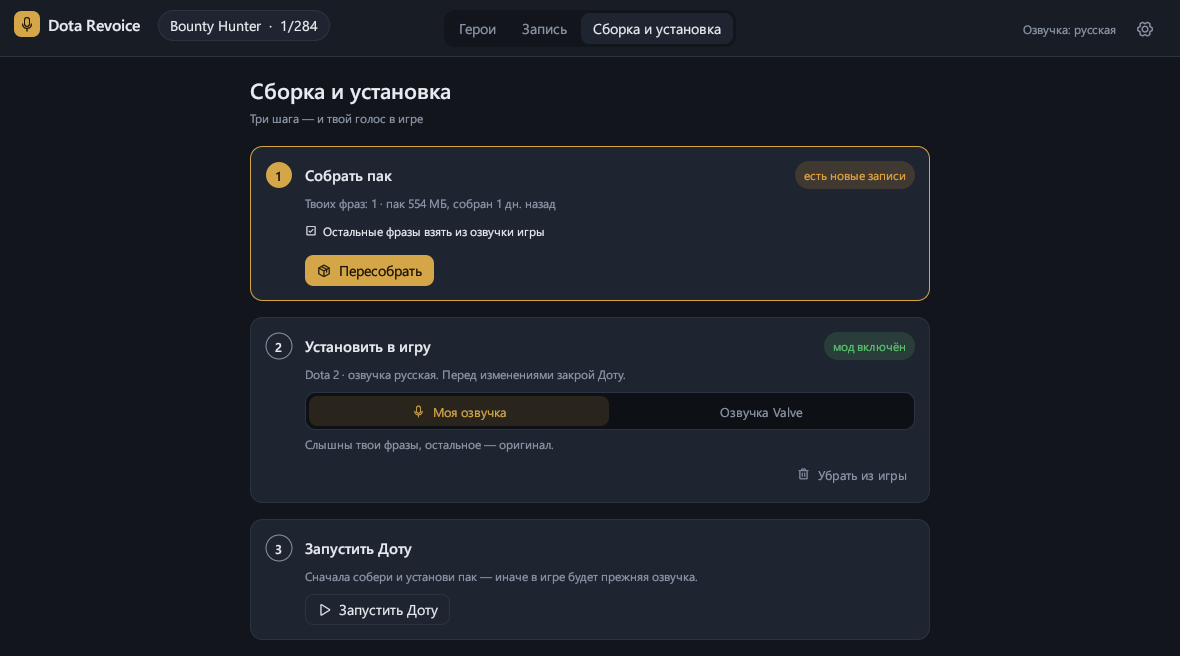
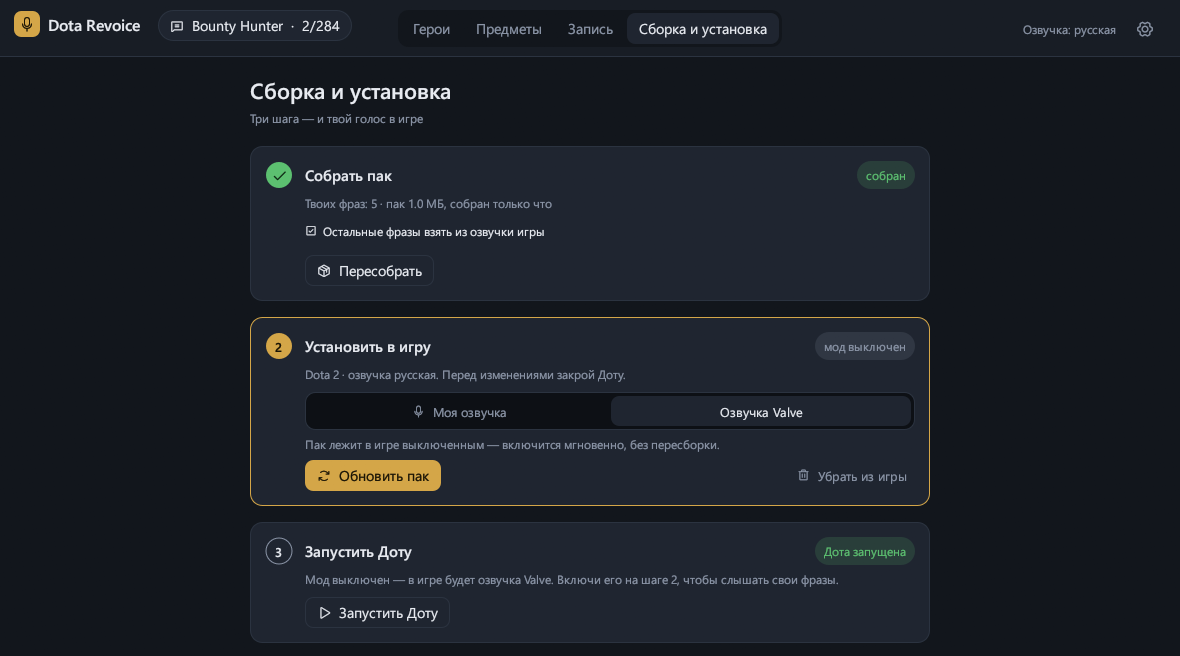
README: новые скриншоты таблицей, способности и предметы

diff --git a/README.md b/README.md
@@ -37,11 +37,36 @@
 
 ## Как это выглядит
 
-![Герои: все герои Доты с портретами, счётчик записанных фраз](docs/screenshots/heroes.jpg)
+<table>
+  <tr>
+    <td width="50%" align="center">
+      <a href="docs/screenshots/heroes.jpg"><img src="docs/screenshots/heroes.jpg" alt="Герои" width="100%"></a><br>
+      <sub><b>Герои</b> — все герои Доты с портретами, рядом личности и автоматоны</sub>
+    </td>
+    <td width="50%" align="center">
+      <a href="docs/screenshots/record.png"><img src="docs/screenshots/record.png" alt="Запись" width="100%"></a><br>
+      <sub><b>Запись</b> — оригинал и моя версия: обрезка, громкость, тон</sub>
+    </td>
+  </tr>
+  <tr>
+    <td width="50%" align="center">
+      <a href="docs/screenshots/abilities.png"><img src="docs/screenshots/abilities.png" alt="Способности" width="100%"></a><br>
+      <sub><b>Способности</b> — звуки героя по способностям, с иконками</sub>
+    </td>
+    <td width="50%" align="center">
+      <a href="docs/screenshots/items.jpg"><img src="docs/screenshots/items.jpg" alt="Предметы" width="100%"></a><br>
+      <sub><b>Предметы</b> — звуки предметов с иконками из игры</sub>
+    </td>
+  </tr>
+  <tr>
+    <td colspan="2" align="center">
+      <a href="docs/screenshots/build.png"><img src="docs/screenshots/build.png" alt="Сборка и установка" width="50%"></a><br>
+      <sub><b>Сборка и установка</b> — три шага и переключатель «Моя озвучка / Озвучка Valve»</sub>
+    </td>
+  </tr>
+</table>
 
-![Запись: оригинал и моя версия с обрезкой, громкостью и тоном](docs/screenshots/record.png)
-
-![Сборка и установка: три шага и переключатель «Моя озвучка / Озвучка Valve»](docs/screenshots/build.png)
+<sub>Нажми на картинку, чтобы открыть её в полном размере.</sub>
 
 > Фанатский проект, не связан с Valve. Программа меняет только файлы в папке
 > языка озвучки (`game/dota_russian` и т.п.) и всё умеет откатывать.

diff --git a/README.en.md b/README.en.md
@@ -39,11 +39,36 @@ that the game loads instead of Valve's voice-over.
 
 *The screenshots show the Russian interface; the English one has the same layout.*
 
-![Heroes: every Dota hero with portraits and a count of recorded lines](docs/screenshots/heroes.jpg)
+<table>
+  <tr>
+    <td width="50%" align="center">
+      <a href="docs/screenshots/heroes.jpg"><img src="docs/screenshots/heroes.jpg" alt="Heroes" width="100%"></a><br>
+      <sub><b>Heroes</b> — every Dota hero with portraits, personas and automatons next to them</sub>
+    </td>
+    <td width="50%" align="center">
+      <a href="docs/screenshots/record.png"><img src="docs/screenshots/record.png" alt="Record" width="100%"></a><br>
+      <sub><b>Record</b> — the original and my version: trim, loudness, pitch</sub>
+    </td>
+  </tr>
+  <tr>
+    <td width="50%" align="center">
+      <a href="docs/screenshots/abilities.png"><img src="docs/screenshots/abilities.png" alt="Abilities" width="100%"></a><br>
+      <sub><b>Abilities</b> — a hero's sounds grouped by ability, with icons</sub>
+    </td>
+    <td width="50%" align="center">
+      <a href="docs/screenshots/items.jpg"><img src="docs/screenshots/items.jpg" alt="Items" width="100%"></a><br>
+      <sub><b>Items</b> — item sounds with icons from the game</sub>
+    </td>
+  </tr>
+  <tr>
+    <td colspan="2" align="center">
+      <a href="docs/screenshots/build.png"><img src="docs/screenshots/build.png" alt="Build & install" width="50%"></a><br>
+      <sub><b>Build & install</b> — three steps and the “My voice-over / Valve voice-over” switch</sub>
+    </td>
+  </tr>
+</table>
 
-![Record: the original and my version with trim, loudness and pitch](docs/screenshots/record.png)
-
-![Build & install: three steps and the "My voice-over / Valve voice-over" switch](docs/screenshots/build.png)
+<sub>Click a picture to open it full size.</sub>
 
 > A fan project, not affiliated with Valve. The app only changes files in the voice-over
 > language folder (`game/dota_russian` etc.) and can undo everything it does.
